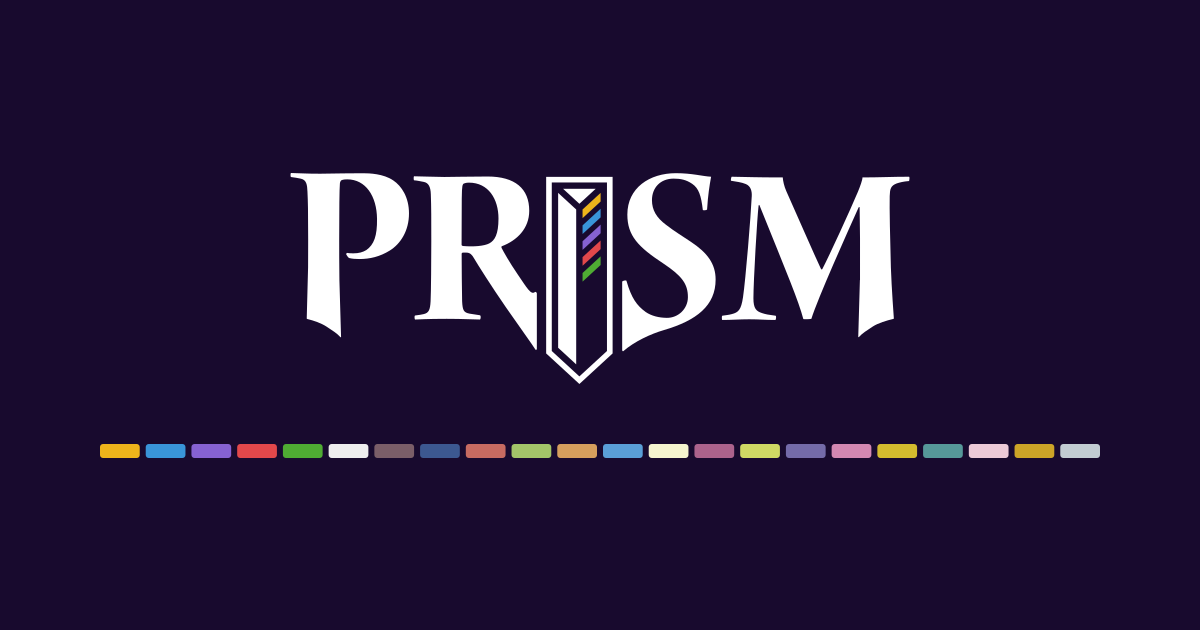
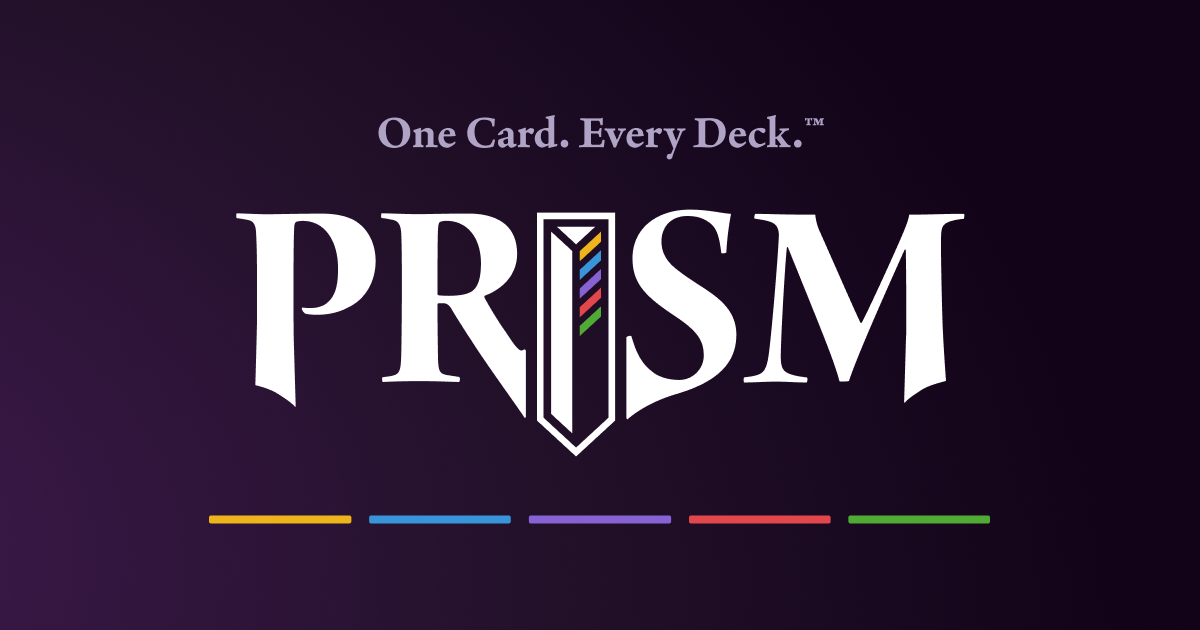
Hand-made share card; remove the og-card generator (#407)
* Remove the og-card generator; share image is made by hand

* New hand-made share card; update its alt text

* links.html: stripe rule matches the share card's five bars

* links.html: thinner stripe rule bars

---------

Changed region(s): [[0.0, 0.2714, 0.925, 1.0], [0.3083, 0.181, 0.6783, 0.2413]]

diff --git a/links.html b/links.html
@@ -51,7 +51,7 @@
     <meta property="og:image" content="https://prismmtg.com/assets/og-card.png" />
     <meta property="og:image:width" content="1200" />
     <meta property="og:image:height" content="630" />
-    <meta property="og:image:alt" content="The PRISM wordmark above a row of the twenty-two deck marking colors" />
+    <meta property="og:image:alt" content="The PRISM wordmark under the tagline “One Card. Every Deck.”, above five colored stripes" />
     <meta name="twitter:card" content="summary_large_image" />
     <meta name="twitter:title" content="PRISM and the Spirit Guide" />
     <meta
@@ -224,21 +224,22 @@
 
       /* ---------------------------------------------------------------
          Stripe rule. The page's divider is the product's own mark system:
-         the 22 deck colors (processor.js DEFAULT_COLORS) laid out as a
-         sleeve edge seen end-on. The blocks flex to fill, so it fits any
-         width exactly and never clips or wraps.
+         the first five deck colors (processor.js DEFAULT_COLORS), spaced as on
+         the share card (assets/og-card.png). The bars shrink on narrow
+         screens, so the rule never clips or wraps.
          --------------------------------------------------------------- */
       .stripe-rule {
         display: flex;
-        gap: var(--space-2xs);
+        justify-content: center;
+        gap: 1.25rem;
         margin: var(--space-2xl) 0;
       }
 
       .stripe-rule span {
-        flex: 1 1 0;
+        flex: 0 1 8.75rem;
         min-width: 0;
-        height: 10px;
-        border-radius: var(--radius-s);
+        height: 6px;
+        border-radius: 2px;
       }
 
       /* ---------------------------------------------------------------
@@ -536,23 +537,6 @@
         <span style="background: #8662d2"></span>
         <span style="background: #e2484b"></span>
         <span style="background: #4fab33"></span>
-        <span style="background: #eeeeee"></span>
-        <span style="background: #7a5e68"></span>
-        <span style="background: #3c5890"></span>
-        <span style="background: #c76b61"></span>
-        <span style="background: #a3c569"></span>
-        <span style="background: #d69f5d"></span>
-        <span style="background: #5a9fd7"></span>
-        <span style="background: #f5f4cf"></span>
-        <span style="background: #ac638c"></span>
-        <span style="background: #cfd964"></span>
-        <span style="background: #746ba9"></span>
-        <span style="background: #d388b2"></span>
-        <span style="background: #d4bc2e"></span>
-        <span style="background: #569899"></span>
-        <span style="background: #eccad7"></span>
-        <span style="background: #cca427"></span>
-        <span style="background: #c2ccd2"></span>
       </div>
 
       <section class="flank flank--media">
@@ -588,23 +572,6 @@
         <span style="background: #8662d2"></span>
         <span style="background: #e2484b"></span>
         <span style="background: #4fab33"></span>
-        <span style="background: #eeeeee"></span>
-        <span style="background: #7a5e68"></span>
-        <span style="background: #3c5890"></span>
-        <span style="background: #c76b61"></span>
-        <span style="background: #a3c569"></span>
-        <span style="background: #d69f5d"></span>
-        <span style="background: #5a9fd7"></span>
-        <span style="background: #f5f4cf"></span>
-        <span style="background: #ac638c"></span>
-        <span style="background: #cfd964"></span>
-        <span style="background: #746ba9"></span>
-        <span style="background: #d388b2"></span>
-        <span style="background: #d4bc2e"></span>
-        <span style="background: #569899"></span>
-        <span style="background: #eccad7"></span>
-        <span style="background: #cca427"></span>
-        <span style="background: #c2ccd2"></span>
       </div>
 
       <section class="flank flank--reverse flank--raised">

diff --git a/guide.html b/guide.html
@@ -18,7 +18,7 @@
          path resolves against the scraper, not the site. They therefore resolve
          only once prismmtg.com serves the site; until the domain points here a
          shared link previews as it does today, with no card. One card serves
-         every page: assets/og-card.png, rebuilt by scripts/build-og-card.mjs. -->
+         every page: assets/og-card.png (1200x630), made by hand. -->
     <link rel="canonical" href="https://prismmtg.com/guide.html" />
     <meta property="og:type" content="website" />
     <meta property="og:site_name" content="PRISM" />
@@ -28,7 +28,7 @@
     <meta property="og:image" content="https://prismmtg.com/assets/og-card.png" />
     <meta property="og:image:width" content="1200" />
     <meta property="og:image:height" content="630" />
-    <meta property="og:image:alt" content="The PRISM wordmark above a row of the twenty-two deck marking colors" />
+    <meta property="og:image:alt" content="The PRISM wordmark under the tagline “One Card. Every Deck.”, above five colored stripes" />
     <meta name="twitter:card" content="summary_large_image" />
     <meta name="twitter:title" content="Marking Guide" />
     <meta name="twitter:description" content="How PRISM sleeve marking works: read a marked sleeve, tell Pool from Core, choose slots, run a marking session, count copies, mark split groups, and fix a mark." />

diff --git a/build.html b/build.html
@@ -18,7 +18,7 @@
          path resolves against the scraper, not the site. They therefore resolve
          only once prismmtg.com serves the site; until the domain points here a
          shared link previews as it does today, with no card. One card serves
-         every page: assets/og-card.png, rebuilt by scripts/build-og-card.mjs. -->
+         every page: assets/og-card.png (1200x630), made by hand. -->
     <link rel="canonical" href="https://prismmtg.com/build.html" />
     <meta property="og:type" content="website" />
     <meta property="og:site_name" content="PRISM" />
@@ -28,7 +28,7 @@
     <meta property="og:image" content="https://prismmtg.com/assets/og-card.png" />
     <meta property="og:image:width" content="1200" />
     <meta property="og:image:height" content="630" />
-    <meta property="og:image:alt" content="The PRISM wordmark above a row of the twenty-two deck marking colors" />
+    <meta property="og:image:alt" content="The PRISM wordmark under the tagline “One Card. Every Deck.”, above five colored stripes" />
     <meta name="twitter:card" content="summary_large_image" />
     <meta name="twitter:title" content="Build Your PRISM" />
     <meta name="twitter:description" content="Import your Commander decklists and PRISM works out which cards they share, how few copies you actually need, and exactly where to mark every sleeve." />

diff --git a/index.html b/index.html
@@ -18,7 +18,7 @@
          path resolves against the scraper, not the site. They therefore resolve
          only once prismmtg.com serves the site; until the domain points here a
          shared link previews as it does today, with no card. One card serves
-         every page: assets/og-card.png, rebuilt by scripts/build-og-card.mjs. -->
+         every page: assets/og-card.png (1200x630), made by hand. -->
     <link rel="canonical" href="https://prismmtg.com/" />
     <meta property="og:type" content="website" />
     <meta property="og:site_name" content="PRISM" />
@@ -28,7 +28,7 @@
     <meta property="og:image" content="https://prismmtg.com/assets/og-card.png" />
     <meta property="og:image:width" content="1200" />
     <meta property="og:image:height" content="630" />
-    <meta property="og:image:alt" content="The PRISM wordmark above a row of the twenty-two deck marking colors" />
+    <meta property="og:image:alt" content="The PRISM wordmark under the tagline “One Card. Every Deck.”, above five colored stripes" />
     <meta name="twitter:card" content="summary_large_image" />
     <meta name="twitter:title" content="PRISM - MTG Deck Sleeve Marking Tool" />
     <meta name="twitter:description" content="Share MTG Commander cards across multiple decks without buying duplicates. PRISM helps you mark sleeves so one card can live in many decks." />

diff --git a/gallery.html b/gallery.html
@@ -18,7 +18,7 @@
          path resolves against the scraper, not the site. They therefore resolve
          only once prismmtg.com serves the site; until the domain points here a
          shared link previews as it does today, with no card. One card serves
-         every page: assets/og-card.png, rebuilt by scripts/build-og-card.mjs. -->
+         every page: assets/og-card.png (1200x630), made by hand. -->
     <link rel="canonical" href="https://prismmtg.com/gallery.html" />
     <meta property="og:type" content="website" />
     <meta property="og:site_name" content="PRISM" />
@@ -28,7 +28,7 @@
     <meta property="og:image" content="https://prismmtg.com/assets/og-card.png" />
     <meta property="og:image:width" content="1200" />
     <meta property="og:image:height" content="630" />
-    <meta property="og:image:alt" content="The PRISM wordmark above a row of the twenty-two deck marking colors" />
+    <meta property="og:image:alt" content="The PRISM wordmark under the tagline “One Card. Every Deck.”, above five colored stripes" />
     <meta name="twitter:card" content="summary_large_image" />
     <meta name="twitter:title" content="Gallery" />
     <meta name="twitter:description" content="Partnered and community artwork for MTG proxies, tokens, and showcase treatments. Personal, non-commercial use with artist credit." />

diff --git a/tools.html b/tools.html
@@ -18,7 +18,7 @@
          path resolves against the scraper, not the site. They therefore resolve
          only once prismmtg.com serves the site; until the domain points here a
          shared link previews as it does today, with no card. One card serves
-         every page: assets/og-card.png, rebuilt by scripts/build-og-card.mjs. -->
+         every page: assets/og-card.png (1200x630), made by hand. -->
     <link rel="canonical" href="https://prismmtg.com/tools.html" />
     <meta property="og:type" content="website" />
     <meta property="og:site_name" content="PRISM" />
@@ -28,7 +28,7 @@
     <meta property="og:image" content="https://prismmtg.com/assets/og-card.png" />
     <meta property="og:image:width" content="1200" />
     <meta property="og:image:height" content="630" />
-    <meta property="og:image:alt" content="The PRISM wordmark above a row of the twenty-two deck marking colors" />
+    <meta property="og:image:alt" content="The PRISM wordmark under the tagline “One Card. Every Deck.”, above five colored stripes" />
     <meta name="twitter:card" content="summary_large_image" />
     <meta name="twitter:title" content="Tools &amp; Supplies" />
     <meta name="twitter:description" content="Recommended paint pens, sleeves, and the Spirit Guide alignment tool for the PRISM sleeve marking system." />

diff --git a/profile.html b/profile.html
@@ -18,7 +18,7 @@
          path resolves against the scraper, not the site. They therefore resolve
          only once prismmtg.com serves the site; until the domain points here a
          shared link previews as it does today, with no card. One card serves
-         every page: assets/og-card.png, rebuilt by scripts/build-og-card.mjs. -->
+         every page: assets/og-card.png (1200x630), made by hand. -->
     <link rel="canonical" href="https://prismmtg.com/profile.html" />
     <meta property="og:type" content="website" />
     <meta property="og:site_name" content="PRISM" />
@@ -28,7 +28,7 @@
     <meta property="og:image" content="https://prismmtg.com/assets/og-card.png" />
     <meta property="og:image:width" content="1200" />
     <meta property="og:image:height" content="630" />
-    <meta property="og:image:alt" content="The PRISM wordmark above a row of the twenty-two deck marking colors" />
+    <meta property="og:image:alt" content="The PRISM wordmark under the tagline “One Card. Every Deck.”, above five colored stripes" />
     <meta name="twitter:card" content="summary_large_image" />
     <meta name="twitter:title" content="Profile" />
     <meta name="twitter:description" content="Manage your PRISM account, view your PRISMs, and update your settings." />

diff --git a/terms.html b/terms.html
@@ -18,7 +18,7 @@
          path resolves against the scraper, not the site. They therefore resolve
          only once prismmtg.com serves the site; until the domain points here a
          shared link previews as it does today, with no card. One card serves
-         every page: assets/og-card.png, rebuilt by scripts/build-og-card.mjs. -->
+         every page: assets/og-card.png (1200x630), made by hand. -->
     <link rel="canonical" href="https://prismmtg.com/terms.html" />
     <meta property="og:type" content="website" />
     <meta property="og:site_name" content="PRISM" />
@@ -28,7 +28,7 @@
     <meta property="og:image" content="https://prismmtg.com/assets/og-card.png" />
     <meta property="og:image:width" content="1200" />
     <meta property="og:image:height" content="630" />
-    <meta property="og:image:alt" content="The PRISM wordmark above a row of the twenty-two deck marking colors" />
+    <meta property="og:image:alt" content="The PRISM wordmark under the tagline “One Card. Every Deck.”, above five colored stripes" />
     <meta name="twitter:card" content="summary_large_image" />
     <meta name="twitter:title" content="Terms of Service" />
     <meta name="twitter:description" content="Terms of Service for PRISM - MTG Deck Sleeve Marking Tool" />

diff --git a/privacy.html b/privacy.html
@@ -18,7 +18,7 @@
          path resolves against the scraper, not the site. They therefore resolve
          only once prismmtg.com serves the site; until the domain points here a
          shared link previews as it does today, with no card. One card serves
-         every page: assets/og-card.png, rebuilt by scripts/build-og-card.mjs. -->
+         every page: assets/og-card.png (1200x630), made by hand. -->
     <link rel="canonical" href="https://prismmtg.com/privacy.html" />
     <meta property="og:type" content="website" />
     <meta property="og:site_name" content="PRISM" />
@@ -28,7 +28,7 @@
     <meta property="og:image" content="https://prismmtg.com/assets/og-card.png" />
     <meta property="og:image:width" content="1200" />
     <meta property="og:image:height" content="630" />
-    <meta property="og:image:alt" content="The PRISM wordmark above a row of the twenty-two deck marking colors" />
+    <meta property="og:image:alt" content="The PRISM wordmark under the tagline “One Card. Every Deck.”, above five colored stripes" />
     <meta name="twitter:card" content="summary_large_image" />
     <meta name="twitter:title" content="Privacy Policy" />
     <meta name="twitter:description" content="Privacy Policy for PRISM - MTG Deck Sleeve Marking Tool" />

diff --git a/CLAUDE.md b/CLAUDE.md
@@ -155,7 +155,7 @@ Preview viewport 1280px+ for desktop layout (sidebar nav); below 768px = mobile.
 - `app_logs` rows expire after 30 days (#214): `prune_app_logs(p_retain_days DEFAULT 30)` scheduled nightly by `pg_cron` as `prune-app-logs`, EXECUTE revoked from `anon` and `authenticated`. Nothing needing >1 month goes in `app_logs`; `logToSupabase` writes only, nothing reads back
 - URL deck imports (add + edit) and deck export share `resolveDeckSource(urlOrId)` / `deckSourceSite` in `modules/deck-source.js` — extend it, don't duplicate detection
 - build.html onboarding callout dismissal persists in `prism_onboarding_dismissed` localStorage flag
-- Share cards: every indexable page carries Open Graph + Twitter tags and `rel="canonical"`, anchored on `https://prismmtg.com` (absolute — scrapers resolve relative paths against themselves). One image, `assets/og-card.png`, rebuilt by `node scripts/build-og-card.mjs` from vector paths only (outlined logo + `DEFAULT_COLORS`), since adobe-aldine and halyard-micro are Typekit fonts a rasterizer can't resolve. `mpc-stripes.html` and `swap-planner.html` excluded (`noindex,nofollow`, no share tags). Add block to every new page
+- Share cards: every indexable page carries Open Graph + Twitter tags and `rel="canonical"`, anchored on `https://prismmtg.com` (absolute — scrapers resolve relative paths against themselves). One image, `assets/og-card.png` (1200×630), made by hand outside the repo — no generator. `mpc-stripes.html` and `swap-planner.html` excluded (`noindex,nofollow`, no share tags). Add block to every new page
 - Supabase Auth emails (#341): six templates in `docs/email-templates/`, generated from one layout by `node scripts/build-email-templates.mjs` (inline styles, table layout, Georgia/system-sans fallbacks, `{{ .Var }}` verbatim; `tests/email-templates.test.js` fails when stale). Pasted into Supabase dashboard by hand; Auth sends via Resend SMTP; `scripts/setup-auth-email.sh` walks both. Edit generator, never HTML
 - `sitemap.xml`, `robots.txt` at publish root. Sitemap generated by `node scripts/build-sitemap.mjs`: globs root `*.html`, drops `noindex` pages and `profile.html` (account stub, keeps share tags). `<loc>` only: Google ignores `changefreq`/`priority`, stale `lastmod` worse than none. Regenerate after adding page. `robots.txt` does **not** `Disallow` noindexed page — disallowed URL never fetched, so its `noindex` never read
 - Loading skeletons (`<wa-skeleton effect="pulse">`): nav renders `#auth-loading` (sized via `hasStoredSession()` — one bar logged-out, two logged-in), hidden by `updateAuthUI`; build.html ships static skeletons in `#decks-list`/`#results-tbody`, destroyed by first render; profile.html `#profile-loading` hidden by `handleAuthChange`. CSS in custom.css (`.skeleton-*`, `.nav-auth-skeleton*`). Skeletons cover only post-`wa-cloak` wait (auth/sync) — anything under cloak invisible
